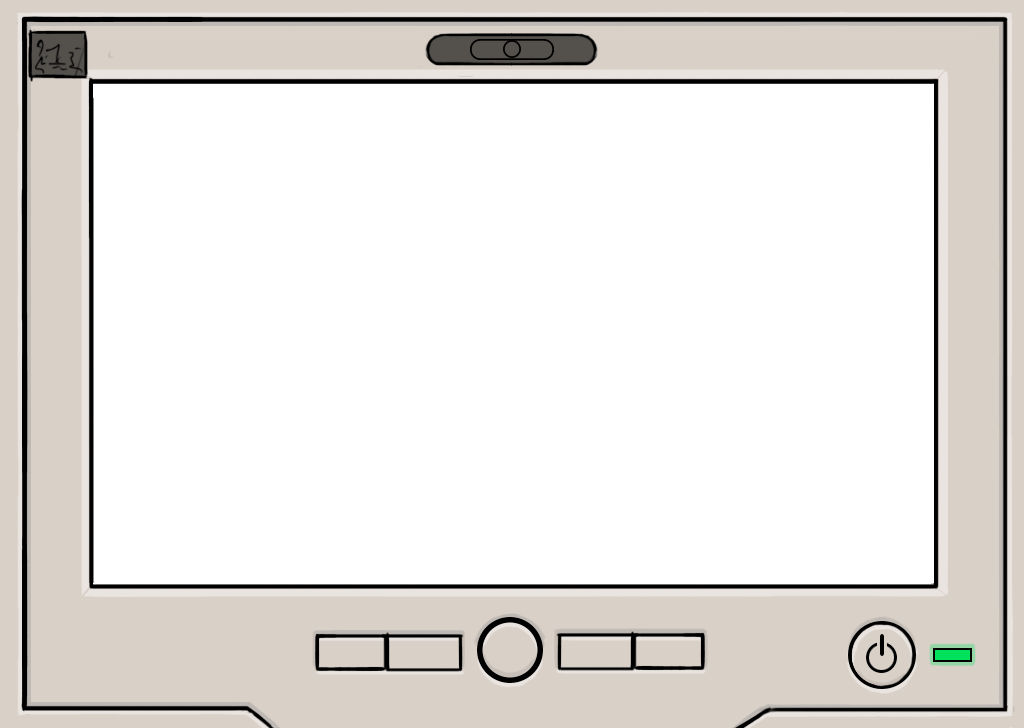
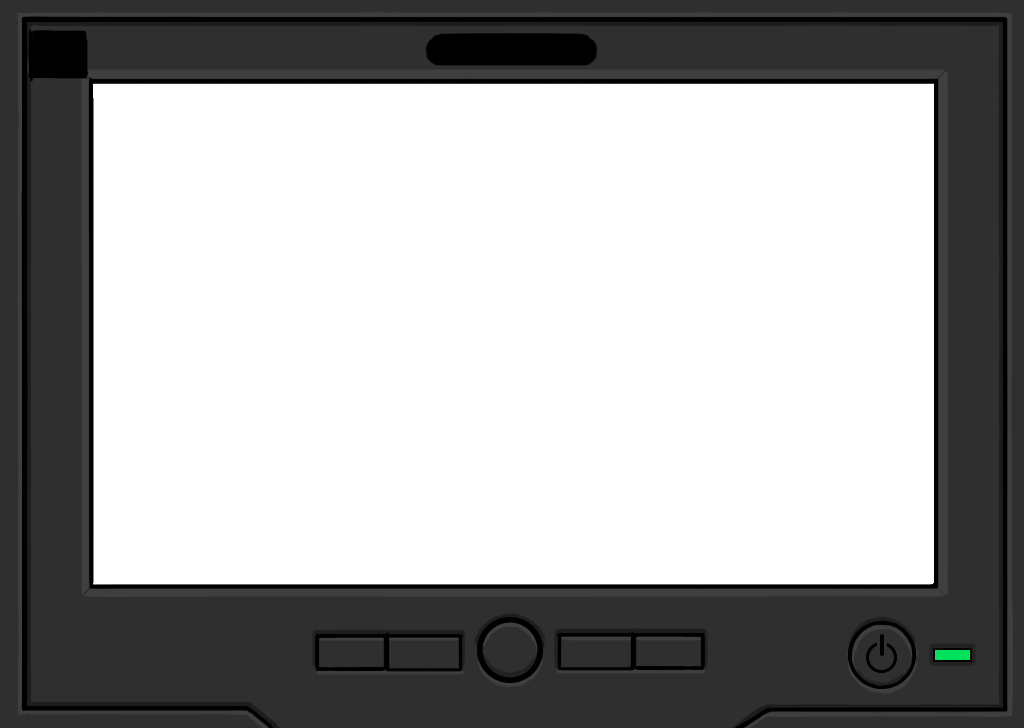
big commit of android stuff and change images

diff --git a/Assets/Scripts/Javascript/Scenes/ButtonAndroidReturn.js b/Assets/Scripts/Javascript/Scenes/ButtonAndroidReturn.js
@@ -125,42 +125,40 @@
 *	Add NameOfYourGameObject.Start() in your scene.
 */
 
-function AndroidPanel ()
+function ButtonAndroidReturn ()
 {
-	this.name = "AndroidPanel";
+	this.name = "";
 	this.enabled = true;
 	this.physics = true;
 	this.renderer = true;
-	this.GameObjects = [];
-	this.solution = [];
-	this.code = [];
 
 	this.transform =
 	{
-		position: {x:canvas.width/2-300/2 - 100, y: canvas.height/2-300/2 - 100},
+		position: {x:860, y: 630},
 		rotation: {x:0, y: 0}, // obselete
-		scale: {x: 350, y: 350}
+		scale: {x: 50, y: 50}
 	};
 
 	this.Physics = 
 	{
-		BoxCollider: true,
+		BoxCollider: false,
 		Clickable:   true,
+		ShowVignetWithNameOnHover: false,
 		DragAndDropable: false,
 		ColliderIsSameSizeAsTransform: false,
-		RelativePosition: true,
+		RelativePosition: false,
  
  		BoxColliderSize: 
 		{
-			position: {x:0, y: 0},
+			position: {x:860, y: 630},
 			rotation: {x:0, y: 0}, // obselete
-			scale: {x: 350, y: 350}
+			scale: {x: 50, y: 50}
 		}
 	};
 	this.Renderer = 
 	{
 		visible: true,
-		GizmosVisible: true,
+		GizmosVisible: false,
 		isSprite: true,
 		thit: this.name,
 		that: this.transform,
@@ -168,7 +166,7 @@ function AndroidPanel ()
 
 		Material:
 		{
-			source: Images.popup,
+			source: Images.backGUI,
 
 			//DontTouch bellow 
 			SizeFrame:
@@ -194,7 +192,10 @@ function AndroidPanel ()
 
 		Draw: function ()
 		{
-			//ctx.drawImage(this.Animation.animated ? this.Animation.current[0] : this.Material.source, this.Material.CurrentFrame.x * this.Material.SizeFrame.x, this.Material.CurrentFrame.y * this.Material.SizeFrame.y, this.Material.CurrentFrame.x + this.Material.SizeFrame.x,this.Material.CurrentFrame.y + this.Material.SizeFrame.y,this.that.position.x,this.that.position.y,this.that.scale.x, this.that.scale.y);
+			if(this.isSprite)
+				if(this.Animation.animated)
+				ctx.drawImage(this.Animation.current[0], this.Material.CurrentFrame.x * this.Material.SizeFrame.x, this.Material.CurrentFrame.y * this.Material.SizeFrame.y, this.Material.CurrentFrame.x + this.Material.SizeFrame.x,this.Material.CurrentFrame.y + this.Material.SizeFrame.y,this.that.position.x,this.that.position.y,this.that.scale.x, this.that.scale.y);
+				else ctx.drawImage( this.Material.source, this.that.position.x, this.that.position.y, this.that.scale.x, this.that.scale.y);
 			if(Application.DebugMode)
 			{
 				if(this.GizmosVisible)
@@ -251,11 +252,6 @@ function AndroidPanel ()
 			this.Physics.BoxColliderSize.position.y += this.transform.position.y;
 		}
 
-		if(this.Renderer.Material.src != "")
-		{
-			this.Renderer.Material.SizeFrame.x = this.Renderer.Material.source.width / this.Renderer.Animation.current[2];
-			this.Renderer.Material.SizeFrame.y = this.Renderer.Material.source.height;
-		}
 
 		console.log(" %c System: GameObject " + this.name + " Created!", 'background: #222; color: #bada55');
 	};
@@ -265,13 +261,7 @@ function AndroidPanel ()
 		if(!this.Started)
 		{
 			// DO START HERE
-			var i = 1;
-			for(x = 1; x < 4; x++){
-				for(y = 1; y < 4; y++){
-					this.GameObjects.push(new AndroidButton(i,x,y,this.transform,this));
-					i++;
-				}
-			}
+
 			console.log(" %c System: GameObject " + this.name + " Started!", 'background: #222; color: #bada55');
 			this.Started = true;
 		}
@@ -306,6 +296,10 @@ function AndroidPanel ()
 						if(!Input.MouseClick) this.OnHovered();
 						if(Input.MouseClick)  this.OnClicked();
 					}
+					else
+					{
+						this.UnHovered();
+					}
 				}
 			}
 
@@ -329,32 +323,10 @@ function AndroidPanel ()
 
 	this.LateUpdate = function ()
 	{
-		// GAMEOBJECT BEHAVIOR HERE !
-		ctx.drawImage(Images.popup, this.transform.position.x, this.transform.position.y, this.transform.scale.x, this.transform.scale.y);
-		for(var i = 0; i < this.GameObjects.length; i++)
-		{
-			if(this.GameObjects[i].enabled)
-			{
-				this.GameObjects[i].Start();
-			}
-		}
+		this.Renderer.Material.source = Images.backGUI;
+
 		if(this.renderer)
 			this.Renderer.Draw();
-		if(this.code.length > 0){
-			var originStrokeStyle = ctx.strokeStyle;
-			var originLineWidth = ctx.lineWidth;
-			ctx.beginPath();
-			ctx.moveTo(this.GameObjects[this.code[0]-1].transform.position.x+this.GameObjects[this.code[0]-1].transform.scale.x/2,this.GameObjects[this.code[0]-1].transform.position.y+this.GameObjects[this.code[0]-1].transform.scale.y/2);
-			for(i = 1; i < this.code.length; i++){
-				ctx.lineTo(this.GameObjects[this.code[i]-1].transform.position.x+this.GameObjects[this.code[i]-1].transform.scale.x/2,this.GameObjects[this.code[i]-1].transform.position.y+this.GameObjects[this.code[i]-1].transform.scale.y/2);
-			}
-			ctx.strokeStyle = "#00FFFF";
-			ctx.lineWidth = 5;
-			ctx.stroke();
-			ctx.strokeStyle = originStrokeStyle;
-			ctx.lineWidth = originLineWidth;
-		}
-
 	};
 
 	this.OnTriggerEnter = function (other)
@@ -370,15 +342,22 @@ function AndroidPanel ()
 			Input.DragedElement = this.name;
 			this.SetPosition(Input.MousePosition.x - (this.transform.scale.x / 2), Input.MousePosition.y - (this.transform.scale.y / 2) );
 		}
-
+		if(Application.LoadedLevel == Scenes["SceneMap"])
+		{
+			Application.LoadedLevel = Application.LastRoom;
+		}
+		else
+		{
+			Application.LoadLevel("Office");
+		}
 	};
-	this.OnHovered = function(){
-		if(Input.MouseLongClick){
-			console.log(this.code);
-		}
-		else{
-			this.code = [];
-		}
+
+	this.OnHovered = function()
+	{	
+	};
+	
+	this.UnHovered = function()
+	{
 	};
 
 	this.Awake();

diff --git a/Assets/Scripts/Javascript/GameObjects/key.js b/Assets/Scripts/Javascript/GameObjects/key.js
@@ -277,6 +277,19 @@ function Key ()
 	{
 		if(!Application.GamePaused && this.enabled)
 		{
+
+			if(this.renderer && this.Renderer.Animation.animated)
+			{
+				this.Renderer.Animation.countdown -= Time.DeltaTime;
+				if(this.Renderer.Animation.countdown <= 0)
+				{
+					this.Renderer.Material.CurrentFrame.x += 1;
+					this.Renderer.Animation.countdown = this.Renderer.Animation.current [1] / this.Renderer.Animation.current[2];
+
+					if(this.Renderer.Material.CurrentFrame.x > this.Renderer.Animation.current[2] - 1)
+						this.Renderer.Material.CurrentFrame.x = 0;
+				}
+			}
 			if(this.physics)
 			{
 				if(this.Physics.BoxCollider)
@@ -308,18 +321,7 @@ function Key ()
 				}
 			}
 
-			if(this.renderer && this.Renderer.Animation.animated)
-			{
-				this.Renderer.Animation.countdown -= Time.DeltaTime;
-				if(this.Renderer.Animation.countdown <= 0)
-				{
-					this.Renderer.Material.CurrentFrame.x += 1;
-					this.Renderer.Animation.countdown = this.Renderer.Animation.current [1] / this.Renderer.Animation.current[2];
 
-					if(this.Renderer.Material.CurrentFrame.x > this.Renderer.Animation.current[2] - 1)
-						this.Renderer.Material.CurrentFrame.x = 0;
-				}
-			}
 
 			this.LateUpdate();
 		}
@@ -358,13 +360,10 @@ function Key ()
 
 	this.OnHovered = function()
 	{	
-		if(this.Physics.ShowVignetWithNameOnHover)
-		{
 			ctx.fillStyle = "grey";
 			ctx.RoundedBox(Input.MousePosition.x, Input.MousePosition.y, 100, 30, 5);
 			ctx.fillStyle = "white";
 			ctx.fillText(this.name, Input.MousePosition.x + 20, Input.MousePosition.y + 13);
-		}
 	};
 	
 	this.UnHovered = function()

diff --git a/Assets/Scripts/Javascript/GameObjects/AndroidButton.js b/Assets/Scripts/Javascript/GameObjects/AndroidButton.js
@@ -192,8 +192,6 @@ function AndroidButton (id,xP,yP,ParentT,parent)
 
 		Draw: function ()
 		{
-			if(this.isSprite)
-				ctx.drawImage(this.Animation.animated ? this.Animation.current[0] : this.Material.source, this.Material.CurrentFrame.x * this.Material.SizeFrame.x, this.Material.CurrentFrame.y * this.Material.SizeFrame.y, this.Material.CurrentFrame.x + this.Material.SizeFrame.x,this.Material.CurrentFrame.y + this.Material.SizeFrame.y,this.that.position.x,this.that.position.y,this.that.scale.x, this.that.scale.y);
 			if(Application.DebugMode)
 			{
 				if(this.GizmosVisible)
@@ -275,6 +273,7 @@ function AndroidButton (id,xP,yP,ParentT,parent)
 	{
 		if(!Application.GamePaused && this.enabled)
 		{
+			ctx.drawImage(Images.circle, this.transform.position.x, this.transform.position.y, this.transform.scale.x, this.transform.scale.y);
 			if(this.physics)
 			{
 				if(this.Physics.BoxCollider)

diff --git a/Assets/Scripts/Javascript/Scenes/AndroidCode.js b/Assets/Scripts/Javascript/Scenes/AndroidCode.js
@@ -62,6 +62,7 @@ function SceneAndroidCode ()
 		{
 			//codez le start avant le changement de booleen
 			this.GameObjects.push(new AndroidPanel());
+			this.GameObjects.push(new ButtonAndroidReturn());
 			this.Started = true;
 			Time.LevelLoaded();
 			console.log(" %c System: Scene " + this.name + " have started!", 'background: #222; color: #bada55');
@@ -75,6 +76,8 @@ function SceneAndroidCode ()
 		{
 			ctx.fillStyle = "black";
 			ctx.fillRect(0,0, canvas.width, canvas.height);
+			ctx.drawImage(Images.backgroundOrdinateur, 95, 80);
+			ctx.drawImage(Images.contourOrdinateur, 0,0);
 			for(var i = 0; i < this.GameObjects.length; i++)
 			{
 				if(this.GameObjects[i].enabled)
@@ -97,6 +100,11 @@ function SceneAndroidCode ()
 		{
 			Debug.ShowStats();
 		}
+	};
+
+	this.OnLoadLevel = function()
+	{
+
 	};
 
 	// lance l'awake a la creation de la scene

diff --git a/Assets/Scripts/Javascript/Game/Variables.js b/Assets/Scripts/Javascript/Game/Variables.js
@@ -30,6 +30,7 @@ var ImagesPath = [
 	{ name: "titleLoadBackground", path: "Backgrounds/menu1.jpg"},
 	{ name: "titleCreditBackground", path: "Backgrounds/credits.jpg"},
 	{ name: "tutoBattle", path: "Backgrounds/combat_tuto.jpg"},
+	{ name: "backgroundOrdinateur", path:"Backgrounds/fond_ecran.jpg"},
 
 	{ name: "map_planRDC", path: "Map/Plan_RDC.jpg"},
 	{ name: "map_planE1", path: "Map/Plan_E1.jpg"},
@@ -70,6 +71,8 @@ var ImagesPath = [
 	{ name: "mapGUI", path: "GUI/map.png"},
 	{ name: "backGUI", path: "GUI/retour.png"},
 	{ name: "mouse", path:"GUI/souris.png"},
+	{ name: "circle", path:"GUI/circle.png"},
+	{ name: "popup", path:"GUI/popupxp.png"},
 
 	{ name: "surgeonMain", path: "Enemies/ceiling_mainsurgeon.png"},
 	{ name: "monsterKid", path: "Enemies/monster_kid.png"},

diff --git a/Assets/Scripts/Javascript/Scenes/Office.js b/Assets/Scripts/Javascript/Scenes/Office.js
@@ -68,7 +68,7 @@ function SceneOffice ()
 									{
 										position: {x: 575, y: 210}, 
 										rotation: {x: 0, y: 0}, 
-										scale: {x: 254, y: 344}
+										scale: {x: 184, y: 274}
 									},
 
 									"Bibliothèque",
@@ -98,14 +98,14 @@ function SceneOffice ()
 									));
 
 			this.GameObjects.push(new DecorativeGameObject({
-										position: {x: 650, y: 370}, 
+										position: {x: 120, y: 370}, 
 										rotation: {x: 0, y: 0}, 
 										scale: {x: 153, y: 196}
 									},
 									{
-										position: {x: 650, y: 370}, 
+										position: {x: 120, y: 370}, 
 										rotation: {x: 0, y: 0}, 
-										scale: {x: 153, y: 196}
+										scale: {x: 123, y: 196}
 									},
 
 									"Chaise de Bureau",

diff --git a/index.html b/index.html
@@ -66,6 +66,7 @@
 		<script type="text/javascript" src="Assets/Scripts/Javascript/GameObjects/Coffre.js"></script>
 		<script type="text/javascript" src="Assets/Scripts/Javascript/GameObjects/Papers.js"></script>
 		<script type="text/javascript" src="Assets/Scripts/Javascript/GameObjects/PassePartout.js"></script>
+		<script type="text/javascript" src="Assets/Scripts/Javascript/Scenes/ButtonAndroidReturn.js"></script>
 
 		<!-- Init and launch the game -->
 		<script type="text/javascript" src="Assets/Scripts/Javascript/Game/Game.js"></script>

diff --git a/Assets/Scripts/Javascript/Scenes/BreakRoom.js b/Assets/Scripts/Javascript/Scenes/BreakRoom.js
@@ -44,7 +44,7 @@
 
 function SceneBreakRoom () 
 {
-	this.name = "BreakRoom";
+	this.name = "Salle de pause";
 	this.Started = false;
 	this.message = "";
 
@@ -188,6 +188,11 @@ function SceneBreakRoom ()
 	{
 		if(!Application.GamePaused)
 		{
+			ctx.fillStyle = "rgba(122,122,122, 0.4)";
+			ctx.RoundedBox(0, 0, 125, 30, 20);
+			ctx.fillStyle = "white";
+			ctx.font = "15px Georgia";
+			ctx.fillText(Application.LoadedLevel.name, 20, 23);
 			//Codez la GUI ici pour que la pause soit prise en compte
 		}
 		if(Application.DebugMode)

diff --git a/Assets/Scripts/Javascript/Scenes/Room204.js b/Assets/Scripts/Javascript/Scenes/Room204.js
@@ -175,11 +175,7 @@ function SceneRoom204 ()
 		if(!Application.GamePaused)
 		{
 			//Codez la GUI ici pour que la pause soit prise en compte
-			ctx.fillStyle = "rgba(122,122,122, 0.4)";
-			ctx.RoundedBox(0, 0, 125, 30, 20);
-			ctx.fillStyle = "white";
-			ctx.font = "15px Georgia";
-			ctx.fillText(Application.LoadedLevel.name, 20, 23);
+			
 		}
 		if(Application.DebugMode)
 		{

diff --git a/Assets/Scripts/Javascript/Scenes/Loader.js b/Assets/Scripts/Javascript/Scenes/Loader.js
@@ -135,7 +135,7 @@ function SceneLoader ()
 					 Scenes["BoardCode"] = new BoardCode();
 					 Scenes["AndroidCode"] = new SceneAndroidCode();
 					 GUI.Obj = new ButtonMap();
-					 Application.LoadLevel("Room204");
+					 Application.LoadLevel("Office");
 				}
 			}
 			if(!Dialogue.finished) 
